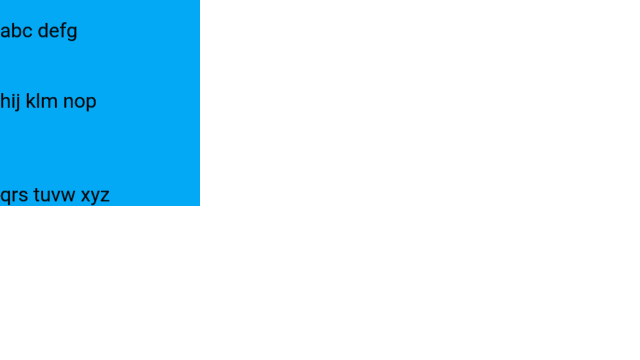
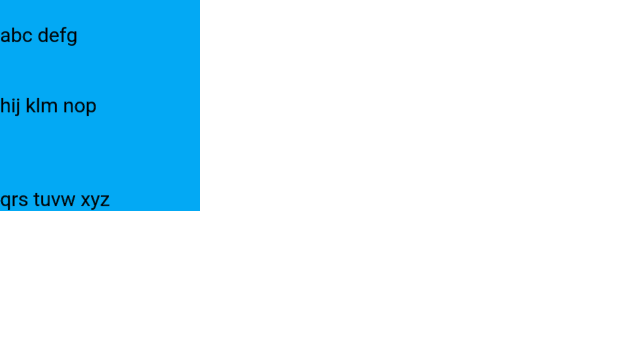
Cleanup of css-text-3 layout tests
Added margin, font-family, and font-size to body of each test in
css-text-3 layout tests to ensure the same look when testing
across browsers.

Changed region(s): [[0.0, 0.5194, 0.3125, 0.6111], [0.0, 0.2444, 0.1562, 0.3361], [0.0, 0.0611, 0.125, 0.1222]]

diff --git a/cobalt/layout_tests/testdata/css-text-3/9-1-negative-text-indent-should-indent-first-line-in-paragraph-to-the-left.html b/cobalt/layout_tests/testdata/css-text-3/9-1-negative-text-indent-should-indent-first-line-in-paragraph-to-the-left.html
@@ -8,12 +8,15 @@
 <html>
 <head>
   <style>
+    body {
+      margin: 0px;
+      font-family: Roboto;
+      font-size: 20px;
+    }
     div {
       width: 320px;
       margin-left: 30px;
-      font-family: Roboto;
       font-weight: normal;
-      font-size: 20px;
     }
     .indent {
       text-indent: -30px;

diff --git a/cobalt/layout_tests/testdata/css-text-3/9-1-negative-text-indent-should-indent-first-line-in-rtl-paragraph-to-the-right.html b/cobalt/layout_tests/testdata/css-text-3/9-1-negative-text-indent-should-indent-first-line-in-rtl-paragraph-to-the-right.html
@@ -8,12 +8,15 @@
 <html>
 <head>
   <style>
+    body {
+      margin: 0px;
+      font-family: Roboto;
+      font-size: 20px;
+    }
     div {
       width: 320px;
       margin-left: 30px;
-      font-family: Roboto;
       font-weight: normal;
-      font-size: 20px;
     }
     .indent {
       text-indent: -30px;

diff --git a/cobalt/layout_tests/testdata/css-text-3/3-content-should-wrap-the-line-with-white-space-pre-wrap.html b/cobalt/layout_tests/testdata/css-text-3/3-content-should-wrap-the-line-with-white-space-pre-wrap.html
@@ -13,12 +13,16 @@
 <html>
 <head>
   <style>
+    body {
+      margin: 0px;
+      font-family: Roboto;
+      font-size: 20px;
+    }
     .containing-block {
       background-color: #03a9f4;
       width: 200px;
     }
     .pre-wrap-class {
-      font-size: 20px;
       white-space: pre-wrap;
     }
   </style>

diff --git a/cobalt/layout_tests/testdata/css-text-3/3-content-should-wrap-the-line-with-white-space-pre-line.html b/cobalt/layout_tests/testdata/css-text-3/3-content-should-wrap-the-line-with-white-space-pre-line.html
@@ -7,12 +7,16 @@
 <html>
 <head>
   <style>
+    body {
+      margin: 0px;
+      font-family: Roboto;
+      font-size: 20px;
+    }
     .containing-block {
       background-color: #03a9f4;
       width: 200px;
     }
     .pre-line-class {
-      font-size: 20px;
       white-space: pre-line;
     }
   </style>

diff --git a/cobalt/layout_tests/testdata/css-text-3/9-1-text-indent-should-indent-first-line-in-paragraph.html b/cobalt/layout_tests/testdata/css-text-3/9-1-text-indent-should-indent-first-line-in-paragraph.html
@@ -7,11 +7,14 @@
 <html>
 <head>
   <style>
+    body {
+      margin: 0px;
+      font-family: Roboto;
+      font-size: 20px;
+    }
     div {
       width: 320px;
-      font-family: Roboto;
       font-weight: normal;
-      font-size: 20px;
     }
     .indent-1 {
       text-indent: 3em;

diff --git a/cobalt/layout_tests/testdata/css-text-3/9-1-text-indent-should-indent-first-line-in-rtl-paragraph-on-right.html b/cobalt/layout_tests/testdata/css-text-3/9-1-text-indent-should-indent-first-line-in-rtl-paragraph-on-right.html
@@ -8,11 +8,14 @@
 <html>
 <head>
   <style>
+    body {
+      margin: 0px;
+      font-family: Roboto;
+      font-size: 20px;
+    }
     div {
       width: 320px;
-      font-family: Roboto;
       font-weight: normal;
-      font-size: 20px;
     }
     .indent-1 {
       text-indent: 3em;

diff --git a/cobalt/layout_tests/testdata/css-text-3/9-1-text-indent-should-indent-nested-inline-block.html b/cobalt/layout_tests/testdata/css-text-3/9-1-text-indent-should-indent-nested-inline-block.html
@@ -7,11 +7,14 @@
 <html>
 <head>
   <style>
+    body {
+      margin: 0px;
+      font-family: Roboto;
+      font-size: 20px;
+    }
     div {
       width: 320px;
-      font-family: Roboto;
       font-weight: normal;
-      font-size: 20px;
     }
     span {
       display: inline-block;

diff --git a/cobalt/layout_tests/testdata/css-text-3/9-1-text-indent-should-indent-nested-inline-rtl-block.html b/cobalt/layout_tests/testdata/css-text-3/9-1-text-indent-should-indent-nested-inline-rtl-block.html
@@ -9,11 +9,14 @@
 <html>
 <head>
   <style>
+    body {
+      margin: 0px;
+      font-family: Roboto;
+      font-size: 20px;
+    }
     div {
       width: 320px;
-      font-family: Roboto;
       font-weight: normal;
-      font-size: 20px;
     }
     span {
       display: inline-block;

diff --git a/cobalt/layout_tests/testdata/css-text-3/9-1-text-indent-should-not-indent-nested-span.html b/cobalt/layout_tests/testdata/css-text-3/9-1-text-indent-should-not-indent-nested-span.html
@@ -7,11 +7,14 @@
 <html>
 <head>
   <style>
+    body {
+      margin: 0px;
+      font-family: Roboto;
+      font-size: 20px;
+    }
     div {
       width: 320px;
-      font-family: Roboto;
       font-weight: normal;
-      font-size: 20px;
     }
     .indent {
       text-indent: 3em;

diff --git a/cobalt/layout_tests/testdata/css-text-3/9-1-negative-text-indent-should-indent-nested-inline-block-to-the-left.html b/cobalt/layout_tests/testdata/css-text-3/9-1-negative-text-indent-should-indent-nested-inline-block-to-the-left.html
@@ -8,11 +8,14 @@
 <html>
 <head>
   <style>
+    body {
+      margin: 0px;
+      font-family: Roboto;
+      font-size: 20px;
+    }
     div {
       width: 320px;
-      font-family: Roboto;
       font-weight: normal;
-      font-size: 20px;
     }
     span {
       margin-left: 20px;

diff --git a/cobalt/layout_tests/testdata/css-text-3/9-1-negative-text-indent-should-indent-nested-inline-rtl-block-to-the-right.html b/cobalt/layout_tests/testdata/css-text-3/9-1-negative-text-indent-should-indent-nested-inline-rtl-block-to-the-right.html
@@ -9,11 +9,14 @@
 <html>
 <head>
   <style>
+    body {
+      margin: 0px;
+      font-family: Roboto;
+      font-size: 20px;
+    }
     div {
       width: 320px;
-      font-family: Roboto;
       font-weight: normal;
-      font-size: 20px;
     }
     span {
       margin-left: 20px;

diff --git a/cobalt/layout_tests/testdata/css-text-3/6-2-gracefully-handle-unbreakable-overflow-word-with-overflow-wrap-break-word.html b/cobalt/layout_tests/testdata/css-text-3/6-2-gracefully-handle-unbreakable-overflow-word-with-overflow-wrap-break-word.html
@@ -7,10 +7,14 @@
 <html>
 <head>
   <style>
+    body {
+      margin: 0px;
+      font-family: Roboto;
+      font-size: 20px;
+    }
     .containing-block {
       background-color: #03a9f4;
       width: 1px;
-      font-size: 20px;
       overflow-wrap: break-word;
     }
   </style>
